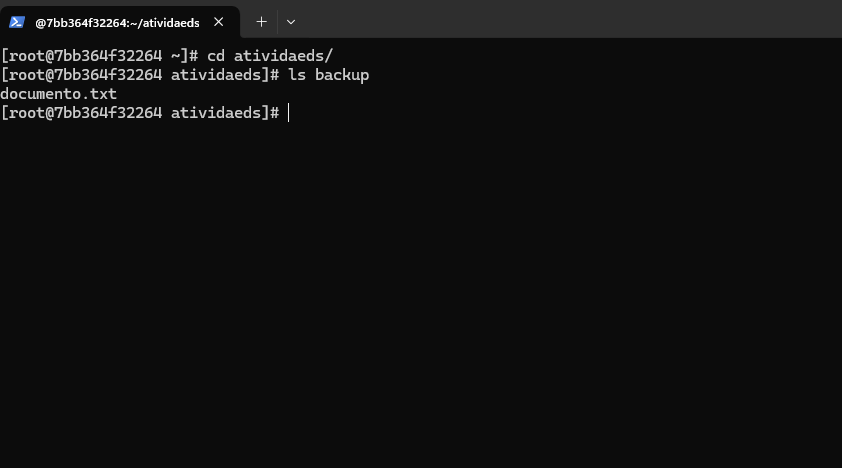
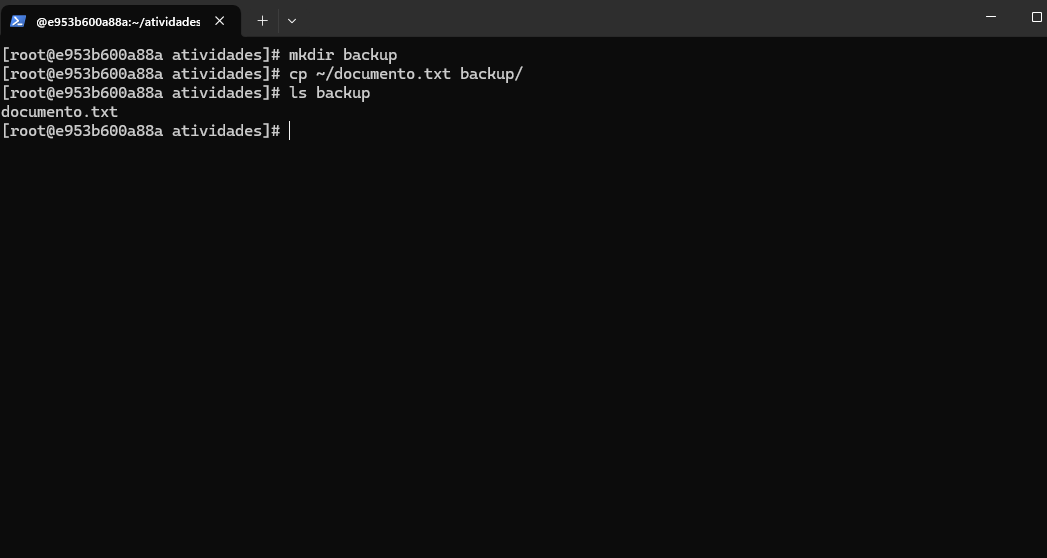
conclusão

Changed region(s): [[0.0, 0.0, 1.0, 0.2692]]

diff --git a/README.md b/README.md
@@ -56,7 +56,7 @@
 
    ![image10](/photos/img10.png)
    ---
-1. Nessa imagem aconteceram dois comandos que infelizmente não foram printados, sendo um deles criação da pasta "backup" utilizando o `mkdir` e alem disso foi feito uma copia do arquivo "documento.txt" utlizando o `cp` para dentro dessa pasta no printa é mostrado o que conta nessa pasta.
+1. Nessa imagem aconteceram dois comandos , sendo um deles criação da pasta "backup" utilizando o `mkdir` e alem disso foi feito uma copia do arquivo "documento.txt" utlizando o `cp` para dentro dessa pasta no printa é mostrado o que conta nessa pasta.
 
    ![image11](/photos/img11.png)
    ---
@@ -117,9 +117,9 @@
    ![image24](/photos/img25.png)
    ---
 
-1. Em seguida utlizamos o "ps" seguido do comando `| grep` para fazer uma filtro na saida do ps onde será possivel encontrar o processo com mais facilidade.
+1. Logo então foi utilizado o comando `kill` juntamente com o id do processo para encerra-lo.
 
-   ![image25](/photos/img2.png)
+   ![image25](/photos/img26.png)
    ---
 
 ## Conclusão
